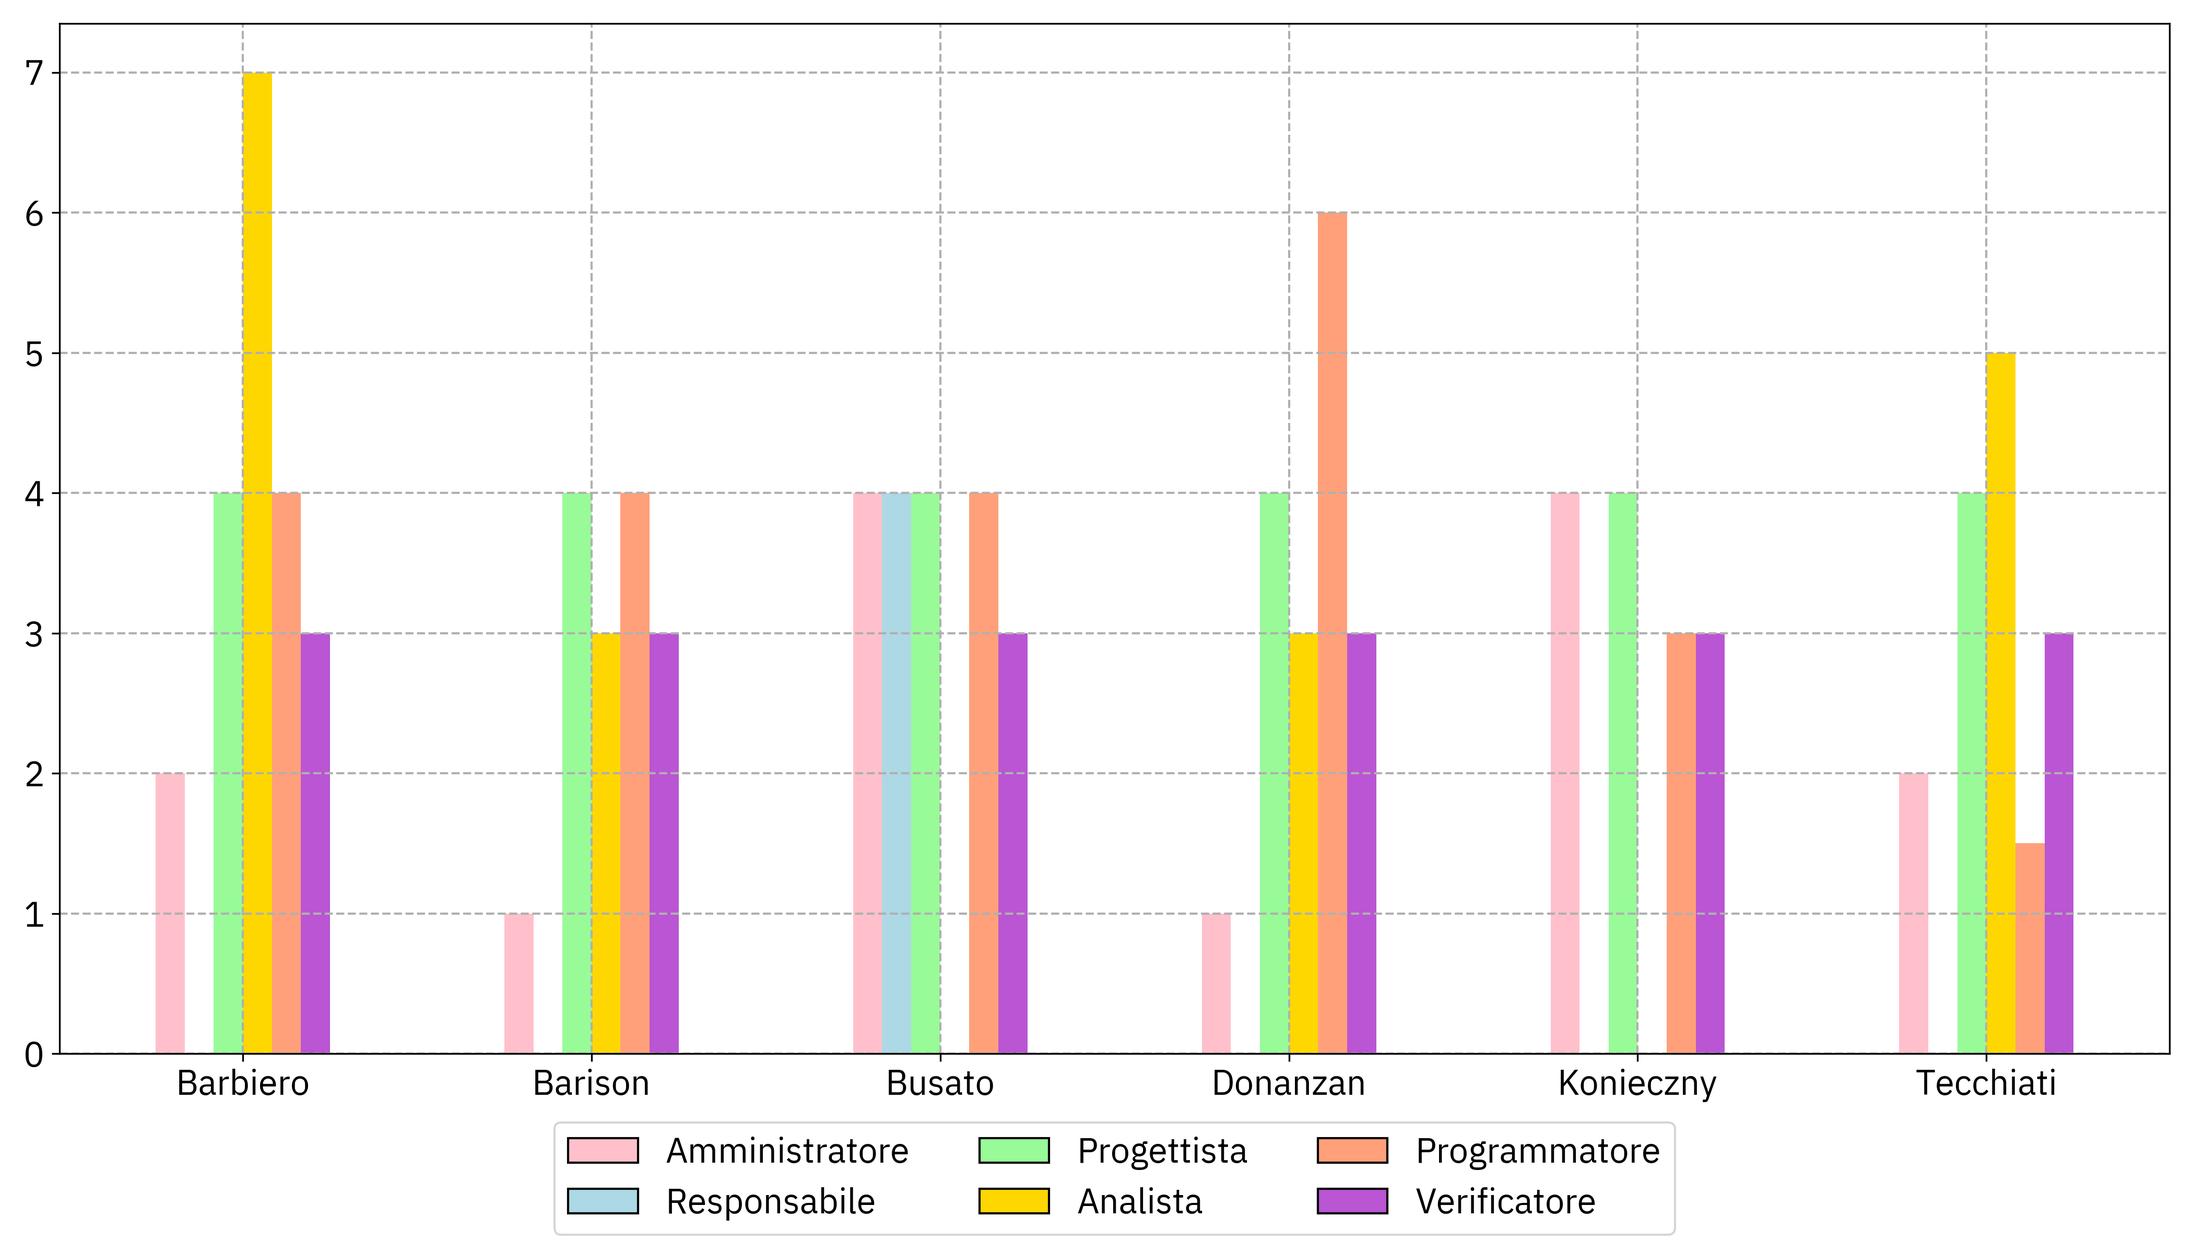
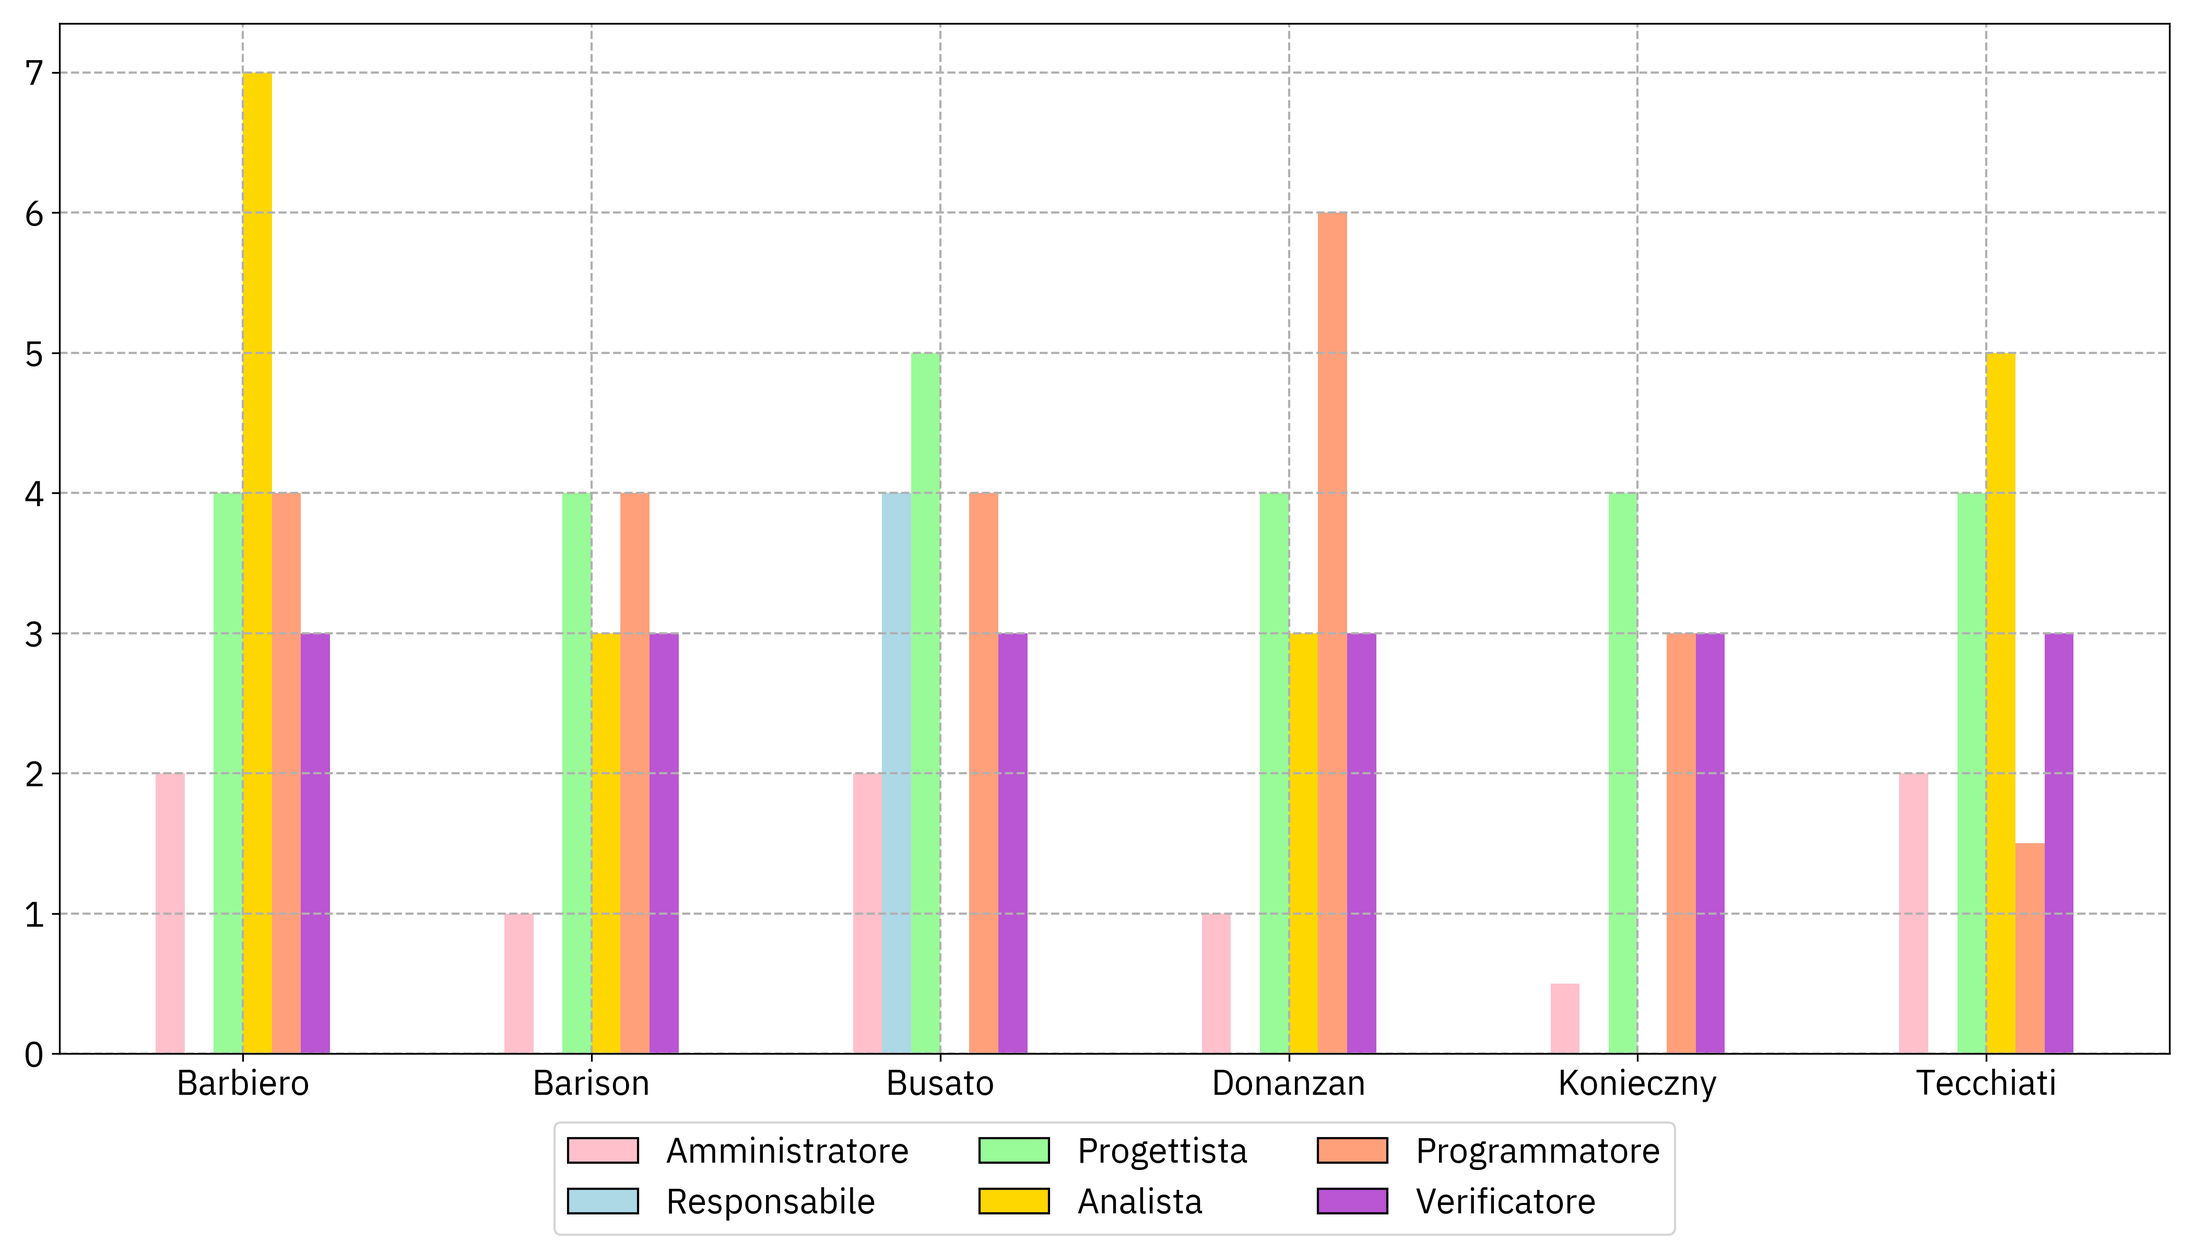
verifica completa per RTB

Changed region(s): [[0.6862, 0.375, 0.7174, 0.7812], [0.3743, 0.2812, 0.4367, 0.625]]

diff --git a/documents/RTB/esterni/piano_di_progetto.tex b/documents/RTB/esterni/piano_di_progetto.tex
@@ -86,19 +86,19 @@
 	\begin{minipage}[t]{0.47\textwidth}\raggedleft
 		{\large{\textsc{Redattori}}
 			\vspace{3mm}
-			{\\\large{\textsc{Linda Barbiero}\\}} 
+			{\\\large{\textsc{Linda Barbiero}\\}}
+			{\large{\textsc{Pietro Busato}\\}}
 			{\large{\textsc{Guglielmo Barison\\}}}
-			{\large{\textsc{Pietro Busato\\}}}
-			{\large{\textsc{Veronica Tecchiati}}}
-			
+      {\large{\textsc{Veronica Tecchiati}}}			
+
 		}
 		\vspace{8mm}
 		
 		{\large{\textsc{Verificatori}}
 			\vspace{3mm}
-			{\\\large{\textsc{Davide Donanzan}\\}}
-			{\large{\textsc{Guglielmo Barison}}}
-			
+			{\\\large{\textsc{Guglielmo Barison}\\}}
+			{\large{\textsc{Davide Donanzan}\\}}
+      {\large{\textsc{Veronica Tecchiati}\\}}
 		}
 		\vspace{4mm}\vspace{4mm}
 	\end{minipage}
@@ -109,7 +109,7 @@
 		\end{flushright}
 		\vspace{3cm}
 	\end{center}
-	\vspace{9cm}
+	\vspace{8.5cm}
 	{\small \textsc{\href{mailto: nan1fyteam.unipd@gmail.com}{\color{black}nan1fyteam.unipd@gmail.com}}}
 \end{titlepage}
 \pagestyle{mystyle}
@@ -121,9 +121,11 @@
 		\toprule
 		\textbf{Versione}& \textbf{Data} & \textbf{Descrizione} & \textbf{Autore} & \textbf{Ruolo} \\
 		\midrule 
-		1.2.0 & 2024-06-23 & Stesura \glossterm{consuntivo} sesto periodo. & Davide Donanzan & Redattore \\\\
-		1.1.0 & 2024-06-11 & Stesura \glossterm{preventivo} sesto periodo. & Davide Donanzan & Redattore \\\\
-		1.0.0 & 2024-06-04 & \textbf{Approvazione per RTB} & & \\\\
+		1.0.0 & 2024-06-23 & \textbf{Approvazione per RTB} & & \\\\	
+    0.12.2 & 2024-06-23 & Verifica completa, correzioni minori & Guglielmo Barison, Veronica
+      Tecchiati & Verificatori  \\\\
+    0.12.1 & 2024-06-23 & Stesura \glossterm{consuntivo} sesto periodo. & Davide Donanzan & Redattore \\\\
+		0.12.0 & 2024-06-11 & Stesura \glossterm{preventivo} sesto periodo. & Davide Donanzan & Redattore \\\\
 		0.11.2 & 2024-06-04 & Verifica completa e modifiche minori. & Guglielmo Barison & Verificatore \\\\
 		0.11.1 & 2024-06-04 & Verifica completa e modifiche minori. & Davide Donanzan & Verificatore \\\\
 		0.11.0 & 2024-05-31 & Stesura \glossterm{consuntivo} quarto periodo, correzioni minori in sezione \ref{sec:3_rtb}. & Pietro Busato & Redattore \\\\
@@ -139,8 +141,20 @@
         0.5.0 & 2024-04-28 & Conclusione stesura sezione \ref{sec:rischi} & Veronica Tecchiati & Redattore \\\\
 		0.4.2 & 2024-04-24 & Fix immagine diagramma \glossterm{Gantt} primo \glossterm{sprint}. & Linda Barbiero & Redattore \\\\
 		0.4.1 & 2024-04-18 & Fix \glossterm{preventivo} e \glossterm{consuntivo} del primo periodo. & Linda Barbiero & Redattore \\\\
-		0.4.0 & 2024-04-18 & Stesura sezione \ref{sec:1_rtb}. & Linda Barbiero & Redattore \\\\
-		0.3.0 & 2024-04-17 & Inizio stesura sezione \ref{sec:rischi}. & Veronica Tecchiati & Redattore \\\\
+		0.4.0 & 2024-04-18 & Stesura sezione \ref{sec:1_rtb}. & Linda Barbiero & Redattore \\
+		\bottomrule
+\end{tabular}
+\newpage
+\clearpage
+\end{table}
+\begin{table}[H]
+\hypersetup{hidelinks}
+	\centering
+	\begin{tabular}{p{1.2cm} p{2cm} p{6cm} p{3cm} p{2cm}}
+		\toprule
+		\textbf{Versione}& \textbf{Data} & \textbf{Descrizione} & \textbf{Autore} & \textbf{Ruolo} \\
+		\midrule 
+    0.3.0 & 2024-04-17 & Inizio stesura sezione \ref{sec:rischi}. & Veronica Tecchiati & Redattore \\\\
 		0.2.0 & 2024-04-16 & Stesura sezione \ref{sec:intro}. & Veronica Tecchiati & Redattore \\\\
 		0.1.0 & 2024-04-12 & Stesura sezione \ref{sec:modello} e inizio sezione \ref{sec:organigramma}. & Linda Barbiero & Redattore \\\\
 		0.0.0 & 2024-04-12 & Stesura del file e sezione \ref{sec:1_rtb}. & Linda Barbiero & Redattore \\
@@ -152,6 +166,7 @@
 	\label{table:Registro delle modifiche}
 \end{table}
 \newpage
+\clearpage
 {\hypersetup{hidelinks} \tableofcontents}
 \clearpage
 \newpage
@@ -176,7 +191,6 @@ le attività dai membri del gruppo NaN1fy. In particolare verranno trattati i se
 Il fine è creare una data pipeline che, partendo dalla generazione di dati da alcuni sensori simulati, possa gestire, archiviare, analizzare e visualizzare il flusso dati in tempo reale. I sensori simuleranno il campionamento di diverse caratteristiche della città in esame, come temperatura, vento, traffico e altri elementi analoghi per poi rappresentarne i dati attraverso \glossterm{dashboard} grafiche.
 \subsection{Glossario}
 Per garantire chiarezza nel linguaggio utilizzato nei documenti, è stato redatto un Glossario contenente le definizioni dei termini con significato specifico da disambiguare. Tali termini sono contrassegnati con una G ad apice. L'inserimento di un termine nel Glossario è considerato completo solo dopo averne fornito la definizione.
-
 
 \subsection{Preventivo iniziale}
 Come riportato nel preventivo presentato in fase di candidatura, viene stimato il costo totale del
@@ -929,12 +943,12 @@ I rischi che ci aspettiamo di correre in questo periodo sono i seguenti:
 		\midrule
         Linda Barbiero          & 2     & -     & 4     & 7     & 4     & 3     & 22 \\
         Guglielmo Barison       & 1     & -     & 4     & 3     & 4     & 3     & 15\\
-        Pietro Busato           & 4     & 4     & 4     & 0     & 4     & 3     & 19 \\
+        Pietro Busato           & 2     & 4     & 4     & 0     & 4     & 3     & 17 \\
         Davide Donanzan         & 1     & -     & 4     & 3     & 6     & 3     & 17 \\
-        Oscar Konieczny         & 4     & -     & 4     & 0     & 3     & 3     & 14 \\
+        Oscar Konieczny         & 0,5     & -     & 4     & 0     & 3     & 3     & 11,5 \\
         Veronica Tecchiati      & 2     & -     & 4     & 5     & 1,5   & 3     & 15,5 \\
         \bottomrule
-        \textbf{Totale (ruolo)} & 16    & 4     & 24    & 18    & 22,5  & 18   & 100,5 \\
+        \textbf{Totale (ruolo)} & 8,5    & 4     & 24    & 18    & 22,5  & 18   & 98 \\
 	\end{tabular}
 	\caption{Distribuzione delle ore del quarto Sprint secondo ruolo e membro.}
 	\label{table:Distribuzione delle ore del quarto Sprint secondo ruolo e membro}
@@ -954,14 +968,14 @@ I rischi che ci aspettiamo di correre in questo periodo sono i seguenti:
         \toprule
         \textbf{Ruolo} & \textbf{Ore} & \textbf{Costo (€)} \\
         \midrule
-        Amministratore & 14 & 420 \\
+        Amministratore & 8,5 & 255 \\
         Responsabile & 4 & 80 \\
         Progettista & 24 & 600 \\
         Analista & 18 & 450 \\
         Programmatore & 22,5 & 337,5 \\
         Verificatore & 18 & 270 \\
         \bottomrule
-        \textbf{Totale} & 100,5 & 2157,5
+        \textbf{Totale} & 95 & 2002,5
     \end{tabular}
     \caption{\glossterm{Preventivo} dei costi del quarto Sprint secondo ruolo.}
 	\label{table:Preventivo dei costi del quarto Sprint secondo ruolo}
@@ -978,13 +992,14 @@ I rischi che ci aspettiamo di correre in questo periodo sono i seguenti:
         Linda Barbiero     & 1 \textcolor{teal}{(-1)} & - & 3 \textcolor{teal}{(-1)} & 5 \textcolor{teal}{(-2)} & 5 \textcolor{red}{(+1)} & 3 & 17 \textcolor{teal}{(-3)} \\
         Gugliemo Barison   & 1 & - & 2 \textcolor{teal}{(-2)} & 4 \textcolor{red}{(+1)} & 6
         \textcolor{red}{(+2)} & 3,5 \textcolor{red}{(+0,5)} & 16,5 \textcolor{red}{(+1,5)} \\
-        Pietro Busato      & 3 \textcolor{teal}{(-1)} & 4 & 2 \textcolor{teal}{(-2)} & 4 \textcolor{red}{(+4)} & 5 \textcolor{red}{(+1)} & 3 & 21 \textcolor{red}{(+2)} \\
+        Pietro Busato      & 2 & 4 & 2 \textcolor{teal}{(-2)} & 4
+        \textcolor{red}{(+4)} & 5 \textcolor{red}{(+1)} & 3 & 20 \textcolor{red}{(+3)} \\
         Davide Donanzan    & 1 & - & 4 & 5 \textcolor{red}{(+2)} & 7 \textcolor{red}{(+1)} & 3 & 20 \textcolor{red}{(+3)} \\
-        Oscar Konieczny    & 3 \textcolor{teal}{(-1)} & - & 3 \textcolor{teal}{(-1)} & 3
-        \textcolor{red}{(+3)} & 3,5 \textcolor{red}{(+0,5)} & 4 \textcolor{red}{(+1)} & 16,5 \textcolor{red}{(+2,5)}\\
+        Oscar Konieczny    & 0.5  & - & 3 \textcolor{teal}{(-1)} & 3
+        \textcolor{red}{(+3)} & 3,5 \textcolor{red}{(+0,5)} & 4 \textcolor{red}{(+1)} & 4 \textcolor{red}{(+2,5)}\\
         Veronica Tecchiati & - \textcolor{teal}{(-2)} & - & 1 \textcolor{teal}{(-3)} & 4 \textcolor{teal}{(-1)} & 4 \textcolor{red}{(+2,5)} & 4 \textcolor{red}{(+1)} & 13 \textcolor{teal}{(-2,5)} \\
         \midrule
-        \textbf{Totale (ruolo)} & 9 & 4 & 15 & 25 & 30,5 & 20,5 & 104 \\
+        \textbf{Totale (ruolo)} & 5,5 & 4 & 15 & 25 & 30,5 & 20,5 & 101,5 \\
 		\bottomrule
 	\end{tabular}
 	\caption{Distribuzione delle ore del quarto Sprint secondo ruolo e membro.}
@@ -999,12 +1014,12 @@ I rischi che ci aspettiamo di correre in questo periodo sono i seguenti:
 		\midrule
         Linda Barbiero     & 2 & 5 & 14 & 6 & 12 & 12,5 & 51,5 \\
         Gugliemo Barison   & 1 & 5 & 14,5 & 7 & 11,5 & 15 & 54 \\
-        Pietro Busato      & -1& 4 & 14,5 & 3,5 & 12,5 & 17 & 50,5 \\
+        Pietro Busato      & 0 & 4 & 14,5 & 3,5 & 12,5 & 17 & 51,5 \\
         Davide Donanzan    & 5 & 8 & 12 & 2 & 9 & 13 & 49 \\
-        Oscar Konieczny    & -2,5 & 7 & 15 & 4 & 14,5 & 15 & 53 \\
+        Oscar Konieczny    & 0 & 7 & 15 & 4 & 14,5 & 15 & 55,5 \\
         Veronica Tecchiati & 1,5 & 4,5 & 17 & 0 & 18 & 13 & 54 \\
         \midrule
-        \textbf{Totale (ruolo)} & 6 & 33,5 & 87 & 22,5 & 77 & 85,5 & 312 \\
+        \textbf{Totale (ruolo)} & 9,5 & 33,5 & 87 & 22,5 & 77 & 85,5 & 315,5 \\
 		\bottomrule
 	\end{tabular}
 	\caption{Ore rimaste dopo il quarto Sprint secondo ruolo e membro.}
@@ -1017,14 +1032,14 @@ I rischi che ci aspettiamo di correre in questo periodo sono i seguenti:
         \toprule
         \textbf{Ruolo} & \textbf{Ore} & \textbf{Costo (€)} \\
         \midrule
-        Amministratore & 9 \textcolor{teal}{(-5)} & 270 \textcolor{teal}{(-150)} \\
+        Amministratore & 5,5 \textcolor{teal}{(-3)} & 165 \textcolor{teal}{(-90)} \\
         Responsabile & 4  & 80 \\
         Progettista & 15 \textcolor{teal}{(-9)}  & 375 \textcolor{teal}{(-225)} \\
         Analista & 25 \textcolor{red}{(+7)} & 625 \textcolor{red}{(+175)} \\
         Programmatore & 30,5 \textcolor{red}{(+8)} & 457,5 \textcolor{red}{(+120)} \\
         Verificatore & 20,5 \textcolor{red}{(+2,5)} & 307,5 \textcolor{red}{(+37,5)} \\
         \bottomrule
-        \textbf{Totale} & 104 & 2115
+        \textbf{Totale} & 100,5 & 1930
     \end{tabular}
     \caption{\glossterm{Preventivo} a finire dei costi del quarto Sprint secondo ruolo.}
     \label{table:Preventivo a finire dei costi del quartoo Sprint secondo ruolo}
@@ -1035,8 +1050,8 @@ il tempo a disposizione rispetto al carico di lavoro assegnato. Ciononostante, i
 e determinazione, riuscendo a garantire il completamento degli obiettivi fissati entro il tempo
 limite. Questo tuttavia ha portato il gruppo a dover redistribuire alcuni carichi di lavoro e
 riassegnare parzialmente i ruoli in itinere: ne consegue che il consuntivo differisce discretamente 
-dal preventivo e, sebbene da un punto di vista economico si sia riusciti a risparmiare una piccola somma
-di denaro, -42,5\texteuro, il monte ore finale presenta uno scenario abbastanza diverso da quello previsto.
+dal preventivo e, sebbene da un punto di vista economico si sia riusciti a risparmiare una piccola
+somma.
 Un altro problema verificatosi durante lo Sprint, conseguente al ritmo accelerato di lavoro che ci si è stati trovati ad adottare, 
 risiede nell'aver giocoforza rivolto minore attenzione alla cura dei dettagli di alcune parti di documentazione, che il team 
 si è già riservato di ottemperare nel prossimo Sprint, della durata prevista di una singola settimana, in preparazione all'\glossterm{RTB}.
@@ -1075,6 +1090,8 @@ I rischi che ci aspettiamo di correre in questo periodo sono i seguenti:
         \item \textbf{RP-3:} Stima errata del tempo di completamento di un'attività;
         \item \textbf{RP-5:} Impegni personali ed accademici.
 \end{itemize}
+\newpage
+\clearpage
 \subsubsection{\glossterm{Preventivo}}
 \subsubsubsection{Preventivo orario}
 \begin{table}[ht!]
@@ -1123,6 +1140,7 @@ I rischi che ci aspettiamo di correre in questo periodo sono i seguenti:
     \caption{\glossterm{Preventivo} dei costi del quinto Sprint secondo ruolo.}
 	\label{table:Preventivo dei costi del quinto Sprint secondo ruolo}
 \end{table}
+\clearpage
 \subsubsection{\glossterm{Consuntivo}}
 \subsubsubsection{Consuntivo orario}
 \begin{table}[ht!]
@@ -1153,13 +1171,13 @@ I rischi che ci aspettiamo di correre in questo periodo sono i seguenti:
 		& \textbf{AM} & \textbf{RE} & \textbf{PT} & \textbf{AN} & \textbf{PR} & \textbf{VE}\\
 		\midrule
         Linda Barbiero     & 2    & 5   & 14   & 6   & 12   & 8,5 & 47,5 \\
-        Gugliemo Barison   & 1    & 5   & 14,5 & 7   & 9,5  & 13  & 49 \\
-        Pietro Busato      & -1   & 2,5 & 14,5 & 3,5 & 12,5 & 13  & 46 \\
+        Gugliemo Barison   & 1    & 5   & 14,5 & 7   & 9,5  & 12  & 49 \\
+        Pietro Busato      & 0   & 2,5 & 14,5 & 3,5 & 12,5 & 14  & 47 \\
         Davide Donanzan    & 4    & 8   & 12   & 2   & 9    & 10  & 45 \\
-        Oscar Konieczny    & -2,5 & 7   & 15   & 4   & 14,5 & 10  & 48 \\
+        Oscar Konieczny    & 0 & 7   & 15   & 4   & 14,5 & 10  & 50,5 \\
         Veronica Tecchiati & 1,5  & 4,5 & 17   & 0   & 18   & 9   & 50 \\
         \midrule
-        \textbf{Totale (ruolo)} & 5 & 32 & 87 & 22,5 & 75,5 & 63,5 & 285,5 \\
+        \textbf{Totale (ruolo)} & 8,5 & 32 & 87 & 22,5 & 75,5 & 63,5 & 289 \\
 		\bottomrule
 	\end{tabular}
 	\caption{Ore rimaste dopo il quinto Sprint secondo ruolo e membro.}
@@ -1286,12 +1304,14 @@ I rischi che ci aspettiamo di correre in questo periodo sono i seguenti:
         \textbf{Membro} & \multicolumn{5}{c}{\textbf{Ruolo}} & \multicolumn{2}{r}{\textbf{Totale (persona)}}\\
 		& \textbf{AM} & \textbf{RE} & \textbf{PT} & \textbf{AN} & \textbf{PR} & \textbf{VE}\\
 		\midrule
-        Linda Barbiero          & -     & -     & 4 \textcolor{red}{(+1)}  & 6 \textcolor{teal}{(-1)} & 4                        & 1                        & 15 \\
+        Linda Barbiero          & -     & -     & 5 \textcolor{red}{(+1)}  & 5 \textcolor{teal}{(-1)} & 4                        & 1                        & 15 \\
         Guglielmo Barison       & -     & -     & 4                        & 6                        & 1                        & 3                        & 14 \\
-        Pietro Busato           & -     & -     & 4 \textcolor{teal}{(-1)} & 2 \textcolor{teal}{(-1)} & 4 \textcolor{teal}{(-1)} & 3 \textcolor{teal}{(-1)} & 13 \textcolor{teal}{(-4)} \\
+        Pietro Busato           & -     & -     & 3 \textcolor{teal}{(-1)} & 1
+        \textcolor{teal}{(-1)} & 3 \textcolor{teal}{(-1)} & 2 \textcolor{teal}{(-1)} & 9 \textcolor{teal}{(-4)} \\
         Davide Donanzan         & -     & 6     & 4                        & -                        & -                        & 2                        & 12 \\
         Oscar Konieczny         & -     & -     & 4                        & 3                        & 2                        & 2                        & 11 \\
-        Veronica Tecchiati      & -     & -     & 4 \textcolor{teal}{(-2)} & -                        & 5 \textcolor{teal}{(-3)} & 2                        & 11 \textcolor{teal}{(-5)}\\
+        Veronica Tecchiati      & -     & -     & 2 \textcolor{teal}{(-2)} & -
+        & 2 \textcolor{teal}{(-3)} & 2                        & 6 \textcolor{teal}{(-5)}\\
         \bottomrule
         \textbf{Totale (ruolo)} & - & 6 & 22 & 15 & 12 & 12 & 67 \\
 		\bottomrule
@@ -1308,12 +1328,12 @@ I rischi che ci aspettiamo di correre in questo periodo sono i seguenti:
 		\midrule
         Linda Barbiero     & 2    & 5   & 9    & 1   & 8    & 7,5 & 32,5 \\
         Gugliemo Barison   & 1    & 5   & 10,5 & 1   & 8,5  & 9   & 35 \\
-        Pietro Busato      & -1   & 2,5 & 11,5 & 2,5 & 9,5  & 12  & 37 \\
+        Pietro Busato      & 0   & 2,5 & 11,5 & 2,5 & 9,5  & 12  & 38 \\
         Davide Donanzan    & 4    & 2   & 8    & 2   & 9    & 8   & 33 \\
-        Oscar Konieczny    & -2,5 & 7   & 11   & 1   & 12,5 & 8   & 37 \\
+        Oscar Konieczny    & 0 & 7   & 11   & 1   & 12,5 & 8   & 39,5 \\
         Veronica Tecchiati & 1,5  & 4,5 & 15   & 0   & 16   & 7   & 44 \\
         \midrule
-        \textbf{Totale (ruolo)} & 5 & 26 & 65 & 7,5 & 63,5 & 51,5 & 218,5 \\
+        \textbf{Totale (ruolo)} & 8,5 & 26 & 65 & 7,5 & 63,5 & 51,5 & 222 \\
 		\bottomrule
 	\end{tabular}
 	\caption{Ore rimaste dopo il sesto Sprint secondo ruolo e membro.}
@@ -1328,10 +1348,10 @@ I rischi che ci aspettiamo di correre in questo periodo sono i seguenti:
         \midrule
         Amministratore & -                         & -   \\
         Responsabile   & 6                         & 120 \\
-        Progettista    & 24 \textcolor{teal}{(-2)} & 600 \textcolor{teal}{(-50)} \\
-        Analista       & 17 \textcolor{teal}{(-2)} & 425 \textcolor{teal}{(-50)} \\
-        Programmatore  & 16 \textcolor{teal}{(-4)} & 240 \textcolor{teal}{(-60)} \\
-        Verificatore   & 13 \textcolor{teal}{(-1)} & 195 \textcolor{teal}{(-15)} \\
+        Progettista    & 22 \textcolor{teal}{(-2)} & 550 \textcolor{teal}{(-50)} \\
+        Analista       & 15 \textcolor{teal}{(-2)} & 375 \textcolor{teal}{(-50)} \\
+        Programmatore  & 12 \textcolor{teal}{(-4)} & 180 \textcolor{teal}{(-60)} \\
+        Verificatore   & 12 \textcolor{teal}{(-1)} & 180 \textcolor{teal}{(-15)} \\
         \bottomrule
         \textbf{Totale} & 67 & 1405
     \end{tabular}
